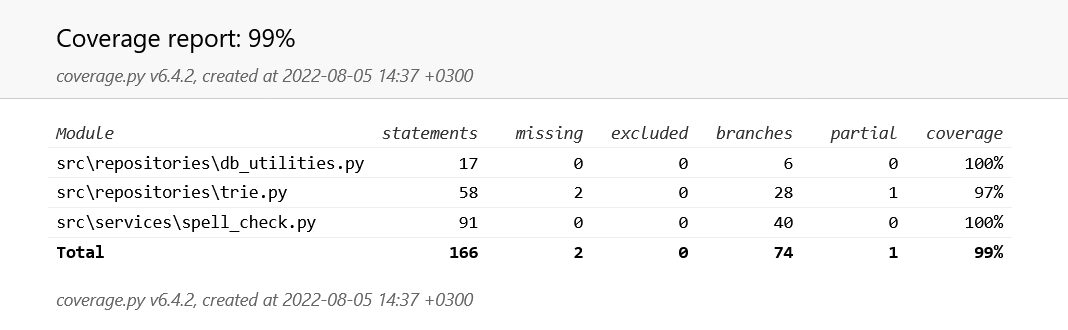
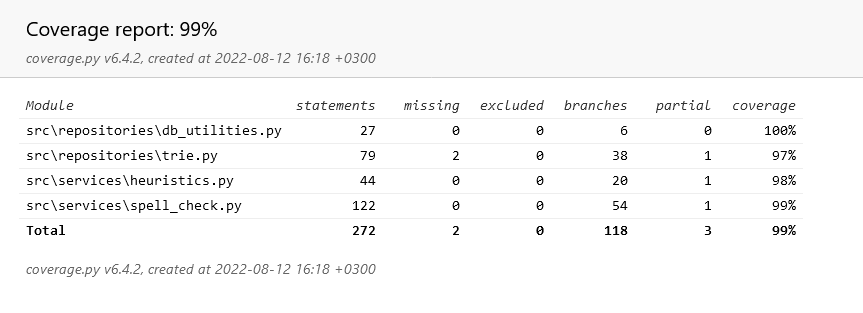
Documentation updates, week 4

diff --git a/documentation/implementation_document.md b/documentation/implementation_document.md
@@ -1,0 +1,53 @@
+# Implementation document
+
+## Project structure
+
+Overall program structure with high level architectural pictures to be added. 
+
+## Implemented time and space complexities
+
+Time and space complexities (e.g. big-O analysis of pseudo code) to be added.
+
+Please note that as the project is not focused on applications' performance, comparative performance and complexity analysis are not done.
+
+## Possible flaws and improvements
+
+Possible flaws and ideas for improvements and further development areas to be added.
+
+## Sources
+
+Multiple sources of data, articles to understand the different algorithms, and examples for implementation of the algorithms have been used. Please find the most relevant below.
+
+### Data
+
+Baseline for the **English language words** used in the application is provided by Princeton University's [WordNet](https://wordnet.princeton.edu/), which consists of ~150,000 commonly used English words. This application is developed complying with the [WordNet 3.0 license](https://wordnet.princeton.edu/license-and-commercial-use) that maintains the copyright with the Princeton University. Please see the copyright text below. 
+
+Frequencies for the words used in the application are based on analysis of texts in the [British National Corpus XML Edition](https://ota.bodleian.ox.ac.uk/repository/xmlui/handle/20.500.12024/2554), downloaded from the Oxford Text Archive. (Source: BNC Consortium, 2007, British National Corpus, XML edition, Oxford Text Archive, http://hdl.handle.net/20.500.12024/2554.) Use of this database is restricted and licensed under [BNC User Licence](http://www.natcorp.ox.ac.uk/docs/licence.html). As a result, no data directly from the database is shared here; only frequencies calculated based on the texts are used in this application. Similar analysis of data is available at [Wiktionary](https://en.wiktionary.org/wiki/Wiktionary:Frequency_lists). BNC containts texts with ~100,000,000 words from both written and spoken English from the beginning of the 1990s.
+
+In total, this application's dictionary consists of ¨150,000 words. ~57,000 of these words have frequency data available; for the rest the frequency is assumed to be 1. When the full dictionary is limited only to words consisting of characters in the English alphabet, the application handles ~77,000 words on a continuous basis.
+
+Sources for misspelled English words used in the automated tests to be added.
+
+### Distance metrics
+
+Approach for calculating the distance metrics follows [Damerau (1964)](https://dl.acm.org/doi/abs/10.1145/363958.363994). There are a few minor differences, though. For example, while Damerau(1964) limits the spellchecking to words longer than 3 characters, and checks only high occurrency words from the dictionary for words with 4-6 characters, no such limitations are needed here, as computer's calculation power is nowadays higher. 
+
+In the implementation, multiple sources have been studied. The most important have been: [Wikipedia: Damerau-Levenhstein distance (2022)](https://en.wikipedia.org/wiki/Damerau%E2%80%93Levenshtein_distance)), [Wikipedia: Wagner-Fischer algorithm article (2022)](https://en.wikipedia.org/wiki/Wagner%E2%80%93Fischer_algorithm)), [Wikipedia: Levenshtein distance (2022)](https://en.wikipedia.org/wiki/Levenshtein_distance), and examples of distance metrics calculation and implementation from [Jensen (2022)](https://www.lemoda.net/text-fuzzy/damerau-levenshtein/index.html), [Grashchenko (2021)](https://www.baeldung.com/cs/levenshtein-distance-computation), and [Norvig (2016)](http://norvig.com/spell-correct.html).
+
+In the keyboard heuristics, QWERTY US keyboard is used as the baseline keyboard, because QWERTY is the most widespread layout in use (source: [Wikipedia: QWERTY, (2022)](https://en.wikipedia.org/wiki/QWERTY). US variant is used, because there is no need for regional variants (only English alphabets are allowed in the application). Examples to consider keyboard distances was provided by [Burton, 2002](https://metacpan.org/pod/String::KeyboardDistance).
+
+### Trie data structure
+
+Comments to be added.
+
+### Other
+
+Comments to be added.
+
+### Key licenses
+
+Please note that the English words used in the application are provided by the **Princeton University's [WordNet](https://wordnet.princeton.edu/)** based on the following copyright: 
+
+WordNet 3.0 license: (Download)
+
+WordNet Release 3.0 This software and database is being provided to you, the LICENSEE, by Princeton University under the following license. By obtaining, using and/or copying this software and database, you agree that you have read, understood, and will comply with these terms and conditions.: Permission to use, copy, modify and distribute this software and database and its documentation for any purpose and without fee or royalty is hereby granted, provided that you agree to comply with the following copyright notice and statements, including the disclaimer, and that the same appear on ALL copies of the software, database and documentation, including modifications that you make for internal use or for distribution. WordNet 3.0 Copyright 2006 by Princeton University. All rights reserved. THIS SOFTWARE AND DATABASE IS PROVIDED "AS IS" AND PRINCETON UNIVERSITY MAKES NO REPRESENTATIONS OR WARRANTIES, EXPRESS OR IMPLIED. BY WAY OF EXAMPLE, BUT NOT LIMITATION, PRINCETON UNIVERSITY MAKES NO REPRESENTATIONS OR WARRANTIES OF MERCHANT- ABILITY OR FITNESS FOR ANY PARTICULAR PURPOSE OR THAT THE USE OF THE LICENSED SOFTWARE, DATABASE OR DOCUMENTATION WILL NOT INFRINGE ANY THIRD PARTY PATENTS, COPYRIGHTS, TRADEMARKS OR OTHER RIGHTS. The name of Princeton University or Princeton may not be used in advertising or publicity pertaining to distribution of the software and/or database. Title to copyright in this software, database and any associated documentation shall at all times remain with Princeton University and LICENSEE agrees to preserve same.

diff --git a/documentation/weekly_report_week_4.md b/documentation/weekly_report_week_4.md
@@ -1,0 +1,55 @@
+# Weekly report: Week 4
+
+## Actions taken during this week
+
+During this week, I targeted to get the core functionalities for the application in place. This was largely achieved. 
+
+During the week, I 
+* Added search functionalities to the trie data structure, returning full list of words in the dictionary, with and without other data related to them (e.g. frequencies for the words)
+* Following the spell checking process in [Damerau (1964)](https://dl.acm.org/doi/abs/10.1145/363958.363994), added functionality to go through the application's dictionary, and suggest alternative words to the user based on the shortest distance (alternative calculation methods (Levenshtein, Optimal string alignment, and Damerau-Levenshtein distance metric) added previous week)
+* Added heuristic based on between keyboard characters' distance to make a more accurate estimate for the distance metrics mentioned above
+* Calculated frequencies for different English words based on data from British National Corpus, and added those frequencies to the words from Princeton University's WordNet used in the application
+* Made first draft of the suggestion for misspelled words based on both distance metrics (with and without keyboard heuristic incorporated) and word frequencies
+* Added heuristics and frequency based suggestions to the UI
+* Polished UI and added checks allowing only the use of English alphabets in the spellchecked words
+
+Other tasks 
+* Developed tests for the aforementioned functionalities
+* Updated the testing document
+* Started writing the implementation document
+* Updated weekly report
+* Started manually testing for the accuracy of suggestions (based on instructor's feedback, performance/speed testing has not been prioritized)
+
+## Project progress
+
+The project progressed largely as planned during this week. The target was to get the core functionalities in place, and to get most of the work for both weeks 4 and 5 done, because during next week I will have only limited time to work on the project. As a result, I pushed to get stretch goals done as well. The only bigger area that remains, is conducting tests for accuracy of suggestions automatically, and based on those outputs, adjust the keyboard heuristics and the selection of suggestions for the misspelled words based on keyboard heuristics and word frequencies.
+
+## Learnings from the week
+
+[Damerau (1964)](https://dl.acm.org/doi/abs/10.1145/363958.363994) outlined a fairly straightforward process for spell checking, which was fairly easy to follow. Bigger challenges were related to the keyboard heuristics: their calculation as such was pretty clear, but I want to conduct tests whether the current heuristics results in good suggestions (based on manual tests, it seems to work fairly well). 
+
+Calculating the frequencies for the English words was a bit tedious, and the main new skills developed were related to cleaning the data, and calculating frequencies efficiently from a large amount of data. As British National Corpus data is copyright protected, these steps are not shared in the project documentation.
+
+Combining the two approaches - keyboard heuristics and the word frequencies - to one relevant suggestion requires a bit more thinking, depending on the test results.
+
+## Unclear and/or problematic areas
+
+Next week's word will center around testing the accuracy of the suggestions in larger scale and adjusting the heuristics and combined metrics (keyboard heuristics and word frequencies) accordingly.
+
+## Next steps
+
+Next week, I have limited time to work on the application, and I will focus on
+* Conducting automated tests for the accuracy of the application's suggestions
+* Adjusting the keyboard heuristics and the use of the combined metrics accordingly
+* (Stretch target) refactor/clean-up the code in a few areas
+
+Other tasks during next week include
+* Conduct peer review
+* Update testing document
+* Expand implementation document
+* Update weekly report
+* (Stretch target) Update used guide
+
+## Working hours during the week
+
+During this week I worked ~27 hours for the project (cumulative hours for the project are ~85 hours).

diff --git a/documentation/testing_document.md b/documentation/testing_document.md
@@ -2,11 +2,11 @@
 
 ## Overview of the tests
 
-Application has been tested both manually and automatically with unit and integration tests with unittest.
+Application has been tested both manually and automatically with unit and integration tests with unittest. Manual testing for the relevance of results has been started.
 
 ## Unit and integration tests
 
-Unit and integration tests are automated and cover all classes, excluding UI (very preliminary version available), following common approach in the faculty's classes. 
+Unit and integration tests are automated and cover all classes, excluding UI, following common approach in the faculty's classes.
 
 Unit and integration tests can be run with the following command: 
 
@@ -22,7 +22,7 @@ Unit and integration tests are also automatically run as part of the application
 
 ### Services (core functionality)
 
-`SpellCheck` class is tested with [TestSpellCheck](../src/tests/spell_check_test.py) test class. Inputs used are strings of realistic words, as the program at the moment simply rejects words which cannot be identified as proper English words.
+`SpellCheck` and `DistanceHeuristics` classes are tested with [TestSpellCheck](../src/tests/spell_check_test.py) and [TestDistanceHeuristics](../src/tests/heuristics_test.py) test classes, respectively. Inputs used are strings of words with English and Scandinavian alphabets, to check that input checks are working correctly.
 
 ### Repositories Classes
 
@@ -50,9 +50,14 @@ Application's test in different operating system - Windows and Ubuntu - has been
 
 ## Other testing
 
-Tests for application's performance (e.g. how quickly the algorithms can suggest  spellchecked words) and relevance of suggestions (e.g. comparing suggestions from the different distance metrics (Levenshtein, optimal string alignment, Damerau-Levenshtein) and based on different heuristics for misspelt words) are yet to be developed.
+Tests for the relevance of suggestions have been done manually. In the tests, suggestions for the misspelled words, generated by the different distance metrics (simplistic approach, Levenshtein, Optimal string alignment, and Damerau-Levenshtein distances) with/without keyboard heuristics, and considering the frequency of the word used in the English language, are compared. 
+
+Manual tests suggest that the algorithms are at the moment quite capable of suggesting the original word intended within the top 10 best alternative words. There does not seem to be difference in the performance of the different distance metrics. Using keyboard heuristics seems to improve the suggestions, and using frequencies improves the relevance of suggestions quite significantly. However, it is important to prioritize suggestions first based on keyboard heuristic, and only after that use the frequencies. If frequencies are used in the priorization with a larger weight than the distance metrics, the results become highly inaccurate, i.e., the algorithm suggests completely wrong words.
+
+Automatic tests to verify this with a larger data set are to be conducted. In the relevance tests, [a list of most typically misspelled English words](https://en.wikipedia.org/wiki/Wikipedia:Lists_of_common_misspellings/For_machines) will taken (available in e.g. Wikipedia), and they will be run through the applications algorithm to see how the current algorithm fares in identifying the intended word.
+
+Based on instructor's feedback, tests for application's performance (e.g. how quickly the different metrics can suggest spellchecked words) are not planned. However, during the manual relevance testing, it was noted that when the misspelled words are long, the application seems a bit slow, so there might be need / opportunities to speed up the search for alternative words.
 
 ## Remaining quality errors
 
-Pylint and autopep8 are used to help identifying and correcting for quality errors. At the moment, the application does not check for the user input; methods to limit errors from arising from this are yet to be put in place. 
-
+Pylint and autopep8 are used to help identifying and correcting for quality errors.

diff --git a/README.md b/README.md
@@ -13,12 +13,13 @@ The purpose of this project is to practice implemention of more advanced data st
 ## Documentation
 
 * [Project specification document](./documentation/project_specification.md)
-* Implementation document (first draft available latest as of week 4)
+* [Implementation document](./documentation/implementation_document.md)
 * [Testing document](./documentation/testing_document.md)
-* [User guide](./documentation/user_guide.md) (Note: comments to the code on e.g. methods will be done using Python Docstring)
+* [User guide](./documentation/user_guide.md) (Note: comments on e.g. the methods, are done with Python Docstring directly in the code)
 
 ## Weekly progress reports
 
 * [Week 1](./documentation/weekly_report_week_1.md)
 * [Week 2](./documentation/weekly_report_week_2.md)
 * [Week 3](./documentation/weekly_report_week_3.md)
+* [Week 4](./documentation/weekly_report_week_4.md)
